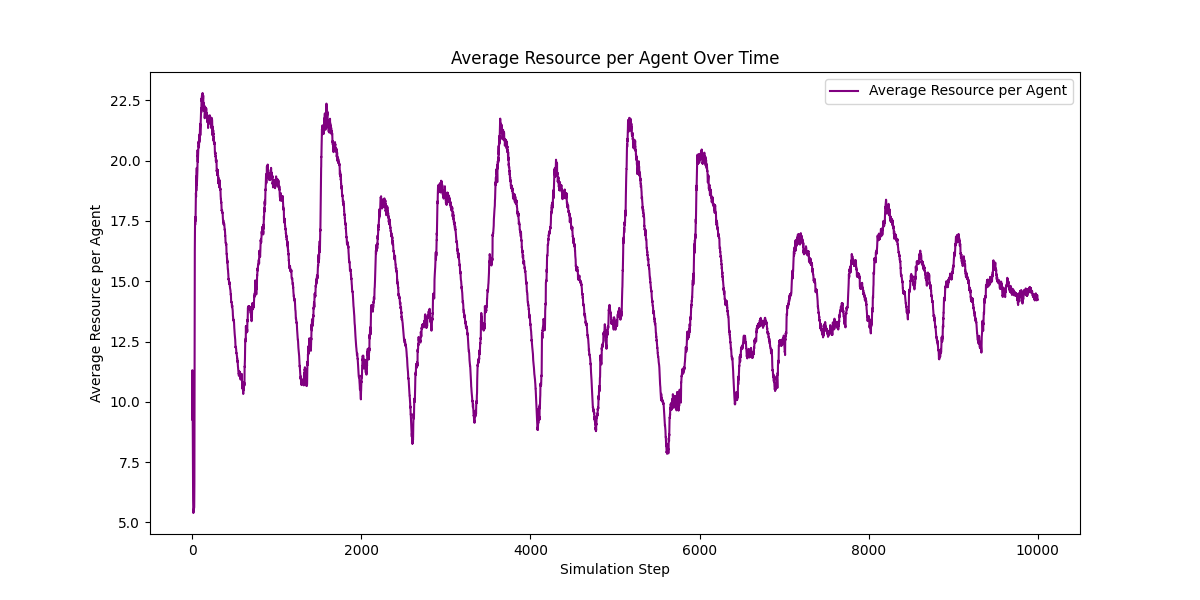
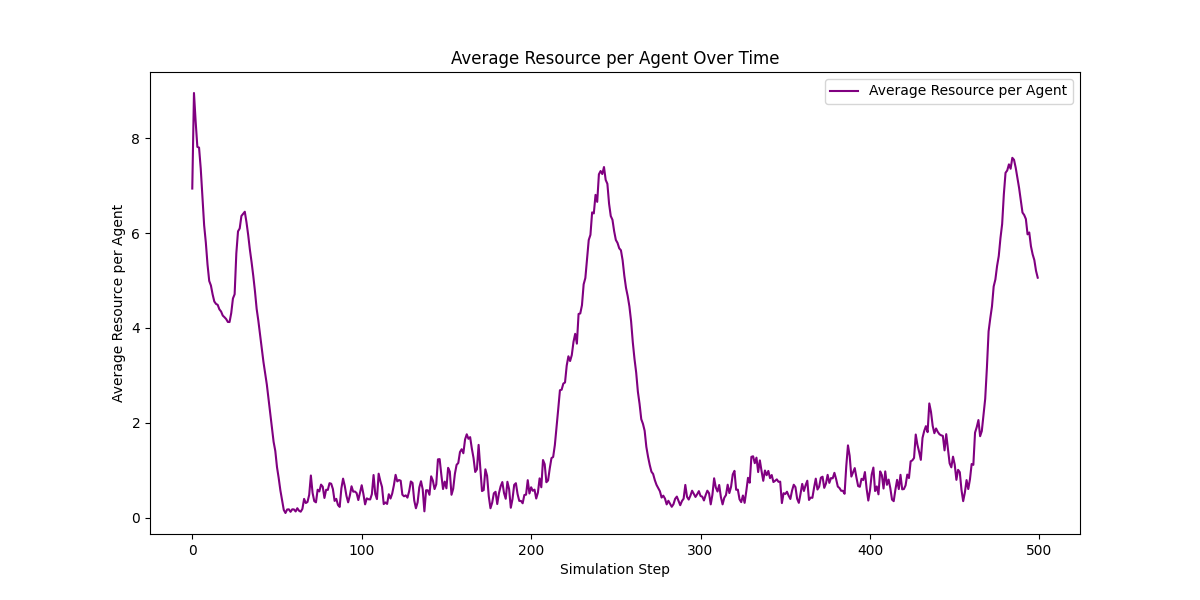
feat: Add visual simulation recording and improve agent interactions
Added visualization capabilities to track and record the simulation state as an
animated GIF, while also enhancing the SystemAgent's nearby agent detection logic.

Key Changes:
- Implemented resource distribution visualization showing:
  * Grayscale background representing resource levels
  * Red dots for agent positions
  * Cycle counter overlay
- Added scaling factor to create larger, more visible output
- Improved get_nearby_system_agents() with proper distance-based detection
- Reduced default simulation steps from 10000 to 500 for faster testing
- Added PIL dependencies for image processing

Technical Details:
- Created create_resource_grid() function to generate visualization frames
- Added 4x scaling for better visibility
- Set maximum detection distance to 30 units for nearby agents
- Set GIF frame duration to 50ms (20 fps)
- Implemented Euclidean distance calculation for agent proximity

The visualization helps in understanding resource distribution patterns and
agent behaviors over time, making it easier to debug and analyze the
simulation dynamics.

diff --git a/Agents/agents.py b/Agents/agents.py
@@ -10,6 +10,9 @@ import logging
 from datetime import datetime
 import os
 from colorama import init, Fore, Style  # Add color support for console
+from PIL import Image
+import io
+from PIL import ImageDraw, ImageFont
 
 # ==============================
 # Environment Setup
@@ -310,12 +313,23 @@ class SystemAgent(Agent):
                     break
 
     def get_nearby_system_agents(self):
-        # Find nearby system agents (dummy logic for now)
-        return [
-            agent
-            for agent in self.environment.agents
-            if isinstance(agent, SystemAgent) and agent != self
-        ]
+        # Define the maximum distance for considering agents as "nearby"
+        max_distance = 30  # Adjust this value based on your simulation needs
+        
+        nearby_agents = []
+        for agent in self.environment.agents:
+            if isinstance(agent, SystemAgent) and agent != self and agent.alive:
+                # Calculate Euclidean distance between agents
+                distance = np.sqrt(
+                    (self.position[0] - agent.position[0]) ** 2 +
+                    (self.position[1] - agent.position[1]) ** 2
+                )
+                
+                # Add agent to nearby list if within range
+                if distance <= max_distance:
+                    nearby_agents.append(agent)
+        
+        return nearby_agents
 
     def transfer_resources(self, agent):
         # Transfer resources to another agent
@@ -463,11 +477,75 @@ def setup_logging():
     logging.root.addHandler(console_handler)
 
 
+def create_resource_grid(environment, step_number):
+    # Set scaling factor (e.g., 4x larger)
+    scale = 4
+    width = environment.width * scale
+    height = environment.height * scale
+    
+    # Create a larger grid
+    grid = np.zeros((height, width, 3), dtype=np.uint8)
+    
+    # Convert resource positions to scaled integer coordinates
+    for resource in environment.resources:
+        x = int(resource.position[0] * scale)
+        y = int(resource.position[1] * scale)
+        x = min(max(x, 0), width - 1)
+        y = min(max(y, 0), height - 1)
+        value = resource.amount
+        
+        # Make resources appear larger by filling a small square
+        for dx in range(-1, 2):
+            for dy in range(-1, 2):
+                new_x = min(max(x + dx, 0), width - 1)
+                new_y = min(max(y + dy, 0), height - 1)
+                grid[new_y, new_x] = [value, value, value]
+    
+    # Normalize to 0-255 range
+    if grid.max() > 0:
+        grid = (grid / grid.max() * 255).astype(np.uint8)
+    
+    # Add agents as larger red dots
+    for agent in environment.agents:
+        if agent.alive:
+            x = int(agent.position[0] * scale)
+            y = int(agent.position[1] * scale)
+            x = min(max(x, 0), width - 1)
+            y = min(max(y, 0), height - 1)
+            
+            # Make agents appear as larger dots
+            for dx in range(-2, 3):
+                for dy in range(-2, 3):
+                    new_x = min(max(x + dx, 0), width - 1)
+                    new_y = min(max(y + dy, 0), height - 1)
+                    grid[new_y, new_x] = [255, 0, 0]
+    
+    # Convert to PIL Image
+    img = Image.fromarray(grid)
+    
+    # Add cycle number text
+    draw = ImageDraw.Draw(img)
+    try:
+        font = ImageFont.truetype("arial.ttf", 16)
+    except:
+        font = ImageFont.load_default()
+    
+    draw.text((10, 10), f"Cycle: {step_number}", fill=(255, 255, 255), font=font)
+    
+    return img
+
+
 def run_simulation(environment, num_steps, data_collector):
     logging.info(f"Starting simulation with {len(environment.agents)} agents")
     logging.info(f"Initial resources: {sum(r.amount for r in environment.resources)}")
-
+    
+    frames = []
+    
     for step in range(num_steps):
+        # Create and store the current frame with step number
+        img = create_resource_grid(environment, step)
+        frames.append(img)
+        
         if step % 100 == 0:  # Log every 100 steps
             alive_agents = sum(1 for agent in environment.agents if agent.alive)
             total_resources = sum(r.amount for r in environment.resources)
@@ -480,9 +558,7 @@ def run_simulation(environment, num_steps, data_collector):
             logging.info(f"Total resources: {total_resources}")
             logging.info(f"Average agent resources: {avg_agent_resources:.2f}")
 
-        for agent in environment.agents[
-            :
-        ]:  # Use a slice to avoid issues when removing agents
+        for agent in environment.agents[:]:
             if agent.alive:
                 agent.act()
                 agent.move()
@@ -490,13 +566,21 @@ def run_simulation(environment, num_steps, data_collector):
             else:
                 environment.agents.remove(agent)
                 agent.die()
-                # logging.info(f"Agent {agent.agent_id} died")
 
         # Environment updates
         environment.update()
 
         # Data collection
         data_collector.collect(environment, step)
+    
+    # Save the animation
+    frames[0].save(
+        'Agents/resource_distribution.gif',
+        save_all=True,
+        append_images=frames[1:],
+        duration=50,  # Duration for each frame in milliseconds
+        loop=0
+    )
 
 
 # ==============================
@@ -603,7 +687,7 @@ def main():
     setup_logging()
 
     # Define simulation parameters
-    num_steps = 10000
+    num_steps = 500
     environment_size = (100, 100)
     resource_distribution = {
         "type": "random", 
